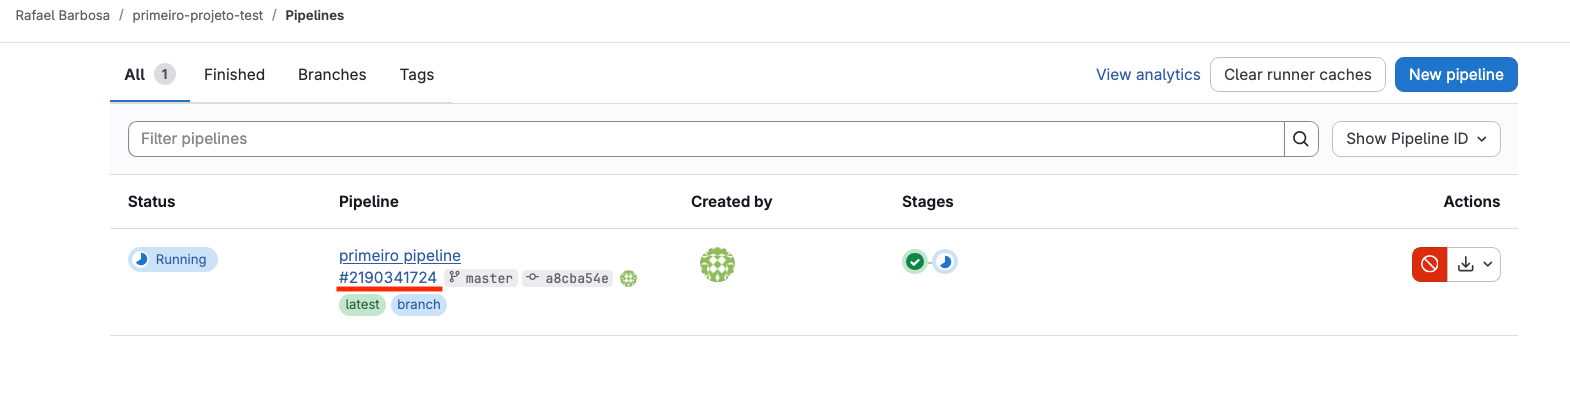
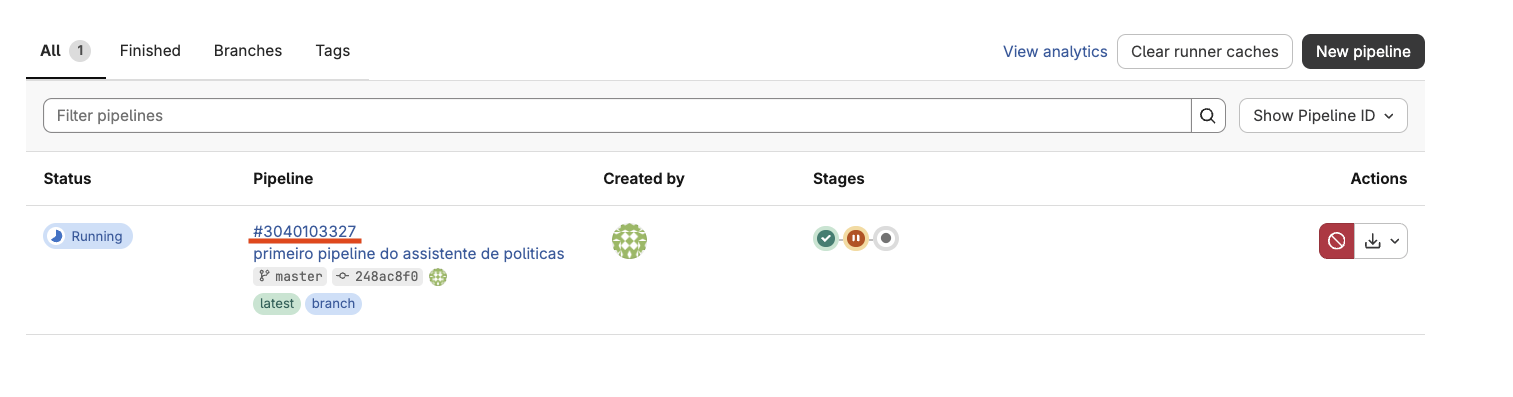
docs(cicd): atualiza os prints do Lab 03.1
Troca os prints que mostravam o fluxo antigo (projeto de teste, so 2 stages e a rota /scooters) e adiciona o print da pergunta sobre devolucao com a fonte citada. Remove os marcadores TROCAR-IMAGEM.

diff --git a/03-CICD/01-Primeiro-pipeline/README.md b/03-CICD/01-Primeiro-pipeline/README.md
@@ -1,12 +1,5 @@
 # 03.1 - Primeiro pipeline: publicando o Assistente de Políticas
 
-<!--
-CONVENÇÃO DE PRINTS DESTE README (nota para o professor, não aparece renderizada)
-- TROCAR-IMAGEM: print antigo ainda visível; sobrescreva o arquivo com o mesmo nome e apague o comentário.
-- NOVA-IMAGEM: print que ainda não existe; salve o PNG no caminho indicado e descomente a linha de imagem logo abaixo.
-- CONFIRMAR-SAIDA: saída esperada a preencher com o resultado do teste real.
--->
-
 > **Segunda-feira, 10h. Aula 4 na Quantum Commerce.**
 > Você é AI DevOps Engineer na **Quantum Commerce**. O runner que você provisionou com Ansible está online desde a semana passada. **Helena Marques**, Head de Engenharia de IA e Entrega Contínua, chega com uma reclamação do Procon impressa: um cliente ouviu do atendimento que tinha 30 dias para devolver um fone, quando a política diz 7.
 >
@@ -484,7 +477,6 @@ O pipeline terá terminado verde nos três stages, e você terá feito três per
 
 No **GitLab**, a lista mostra o pipeline em execução, com um círculo por stage. Espere os três ficarem verdes (leva poucos minutos).
 
-<!-- TROCAR-IMAGEM: img/gitlab-2.png | motivo: fluxo antigo (projeto primeiro-projeto-test, só 2 stages) | capturar: lista de Pipelines do primeiro-projeto com o pipeline "primeiro pipeline do assistente de politicas" rodando e 3 círculos de stage -->
 ![Lista de pipelines do GitLab com o pipeline em execução e o número do pipeline sublinhado](img/gitlab-2.png)
 
 ---
@@ -495,7 +487,6 @@ No **GitLab**, a lista mostra o pipeline em execução, com um círculo por stag
 
 Clique no **número do pipeline** (`#...`) para ver os stages, e clique em cada job para ler o log.
 
-<!-- TROCAR-IMAGEM: img/gitlab-3.png | motivo: fluxo antigo (só os stages plan e apply) | capturar: página do pipeline verde com os 3 stages plan, apply e smoke -->
 ![Página do pipeline com status passed e os jobs dos stages concluídos](img/gitlab-3.png)
 
 O que procurar em cada log:
@@ -634,8 +625,8 @@ curl -s -X POST "$ASSISTENTE_URL" \
 
 Leia três campos. `resposta` traz o prazo de **7 dias** e termina com a fonte. `fontes` lista as 3 seções mais parecidas com a pergunta, da maior nota (`score`) para a menor; a primeira é a usada na resposta, e é o que o jurídico vai querer ver. `versao_politicas` é uma impressão digital das seis políticas publicadas: se alguém mudar uma vírgula num `.md`, esse valor muda no próximo deploy.
 
-<!-- NOVA-IMAGEM: img/curl-assistente-fonte.png | capturar: terminal do Codespaces com o curl do passo 11 e o JSON formatado pelo jq, mostrando "7 dias" na resposta e a fonte devolucoes.md / Direito de arrependimento | depois de salvar o arquivo, descomente a linha abaixo -->
-<!-- ![Terminal com o curl da pergunta sobre devolução e a resposta JSON citando devolucoes.md, seção Direito de arrependimento, com o prazo de 7 dias](img/curl-assistente-fonte.png) -->
+
+![Terminal com o curl da pergunta sobre devolução e a resposta JSON citando devolucoes.md, seção Direito de arrependimento, com o prazo de 7 dias](img/curl-assistente-fonte.png)
 
 <details>
 <summary><b>⚠ Se der erro: <code>{"message":"Not Found"}</code> ou <code>jq: command not found</code></b></summary>
@@ -718,7 +709,6 @@ curl -s -X POST "$ASSISTENTE_URL" \
 
 O campo `pedido` veio do DynamoDB, e a resposta explica o que `em_transito` significa a partir da política `status-do-pedido.md`. O `score` vem `null` porque aqui não houve busca: o assistente foi direto na seção com o nome do status. Separar as duas coisas é a decisão de arquitetura do Projeto 2: **dado transacional vem do sistema de origem; RAG fica para o conhecimento documental**. Rodar o bloco de novo só regrava o mesmo status.
 
-<!-- TROCAR-IMAGEM: img/curl-api-respondendo.png | motivo: fluxo antigo (rota /scooters, VORTEX-SP-001) | capturar: terminal com o PUT em /pedidos/QC-1001 e a pergunta com pedido_id, mostrando o campo "pedido" com status em_transito -->
 ![Terminal com as chamadas à API e as respostas em JSON](img/curl-api-respondendo.png)
 
 ### Checkpoint
